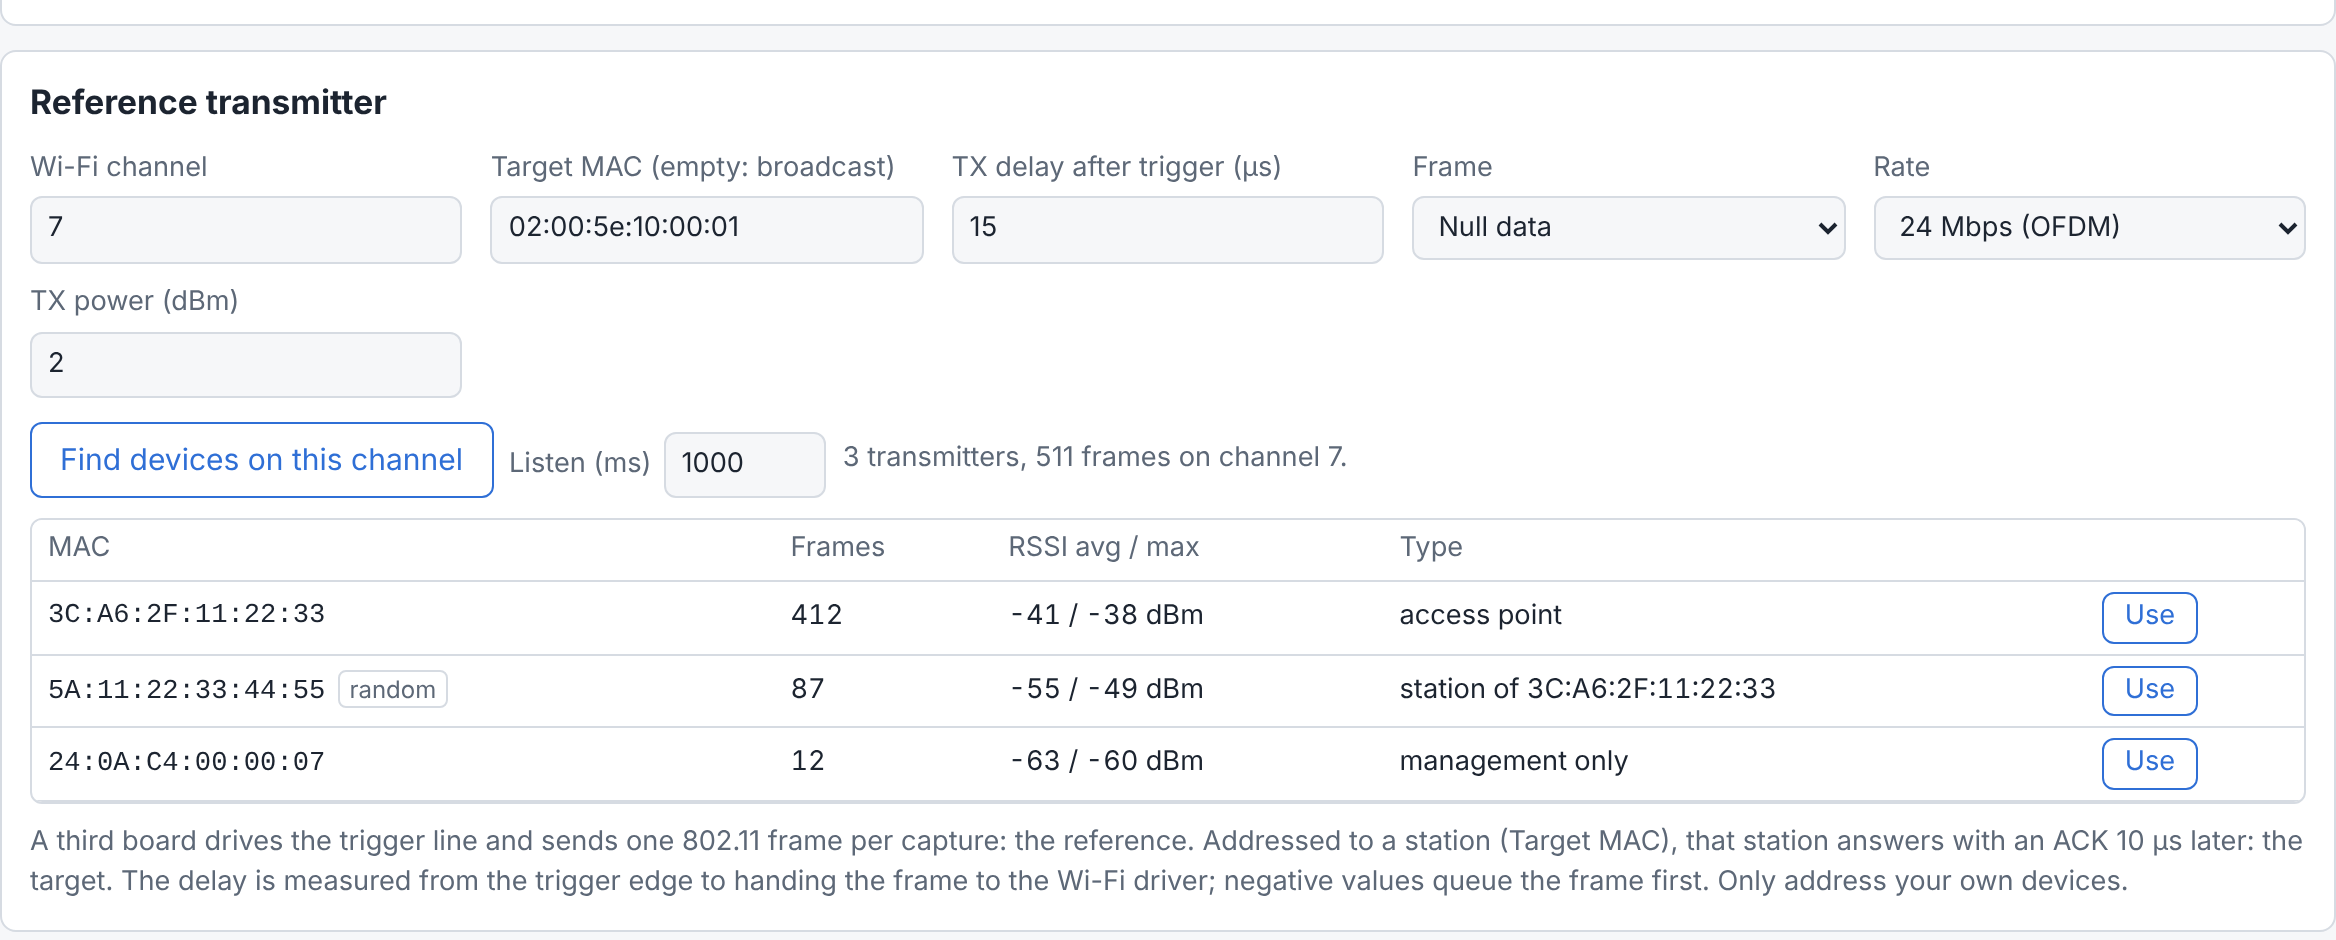
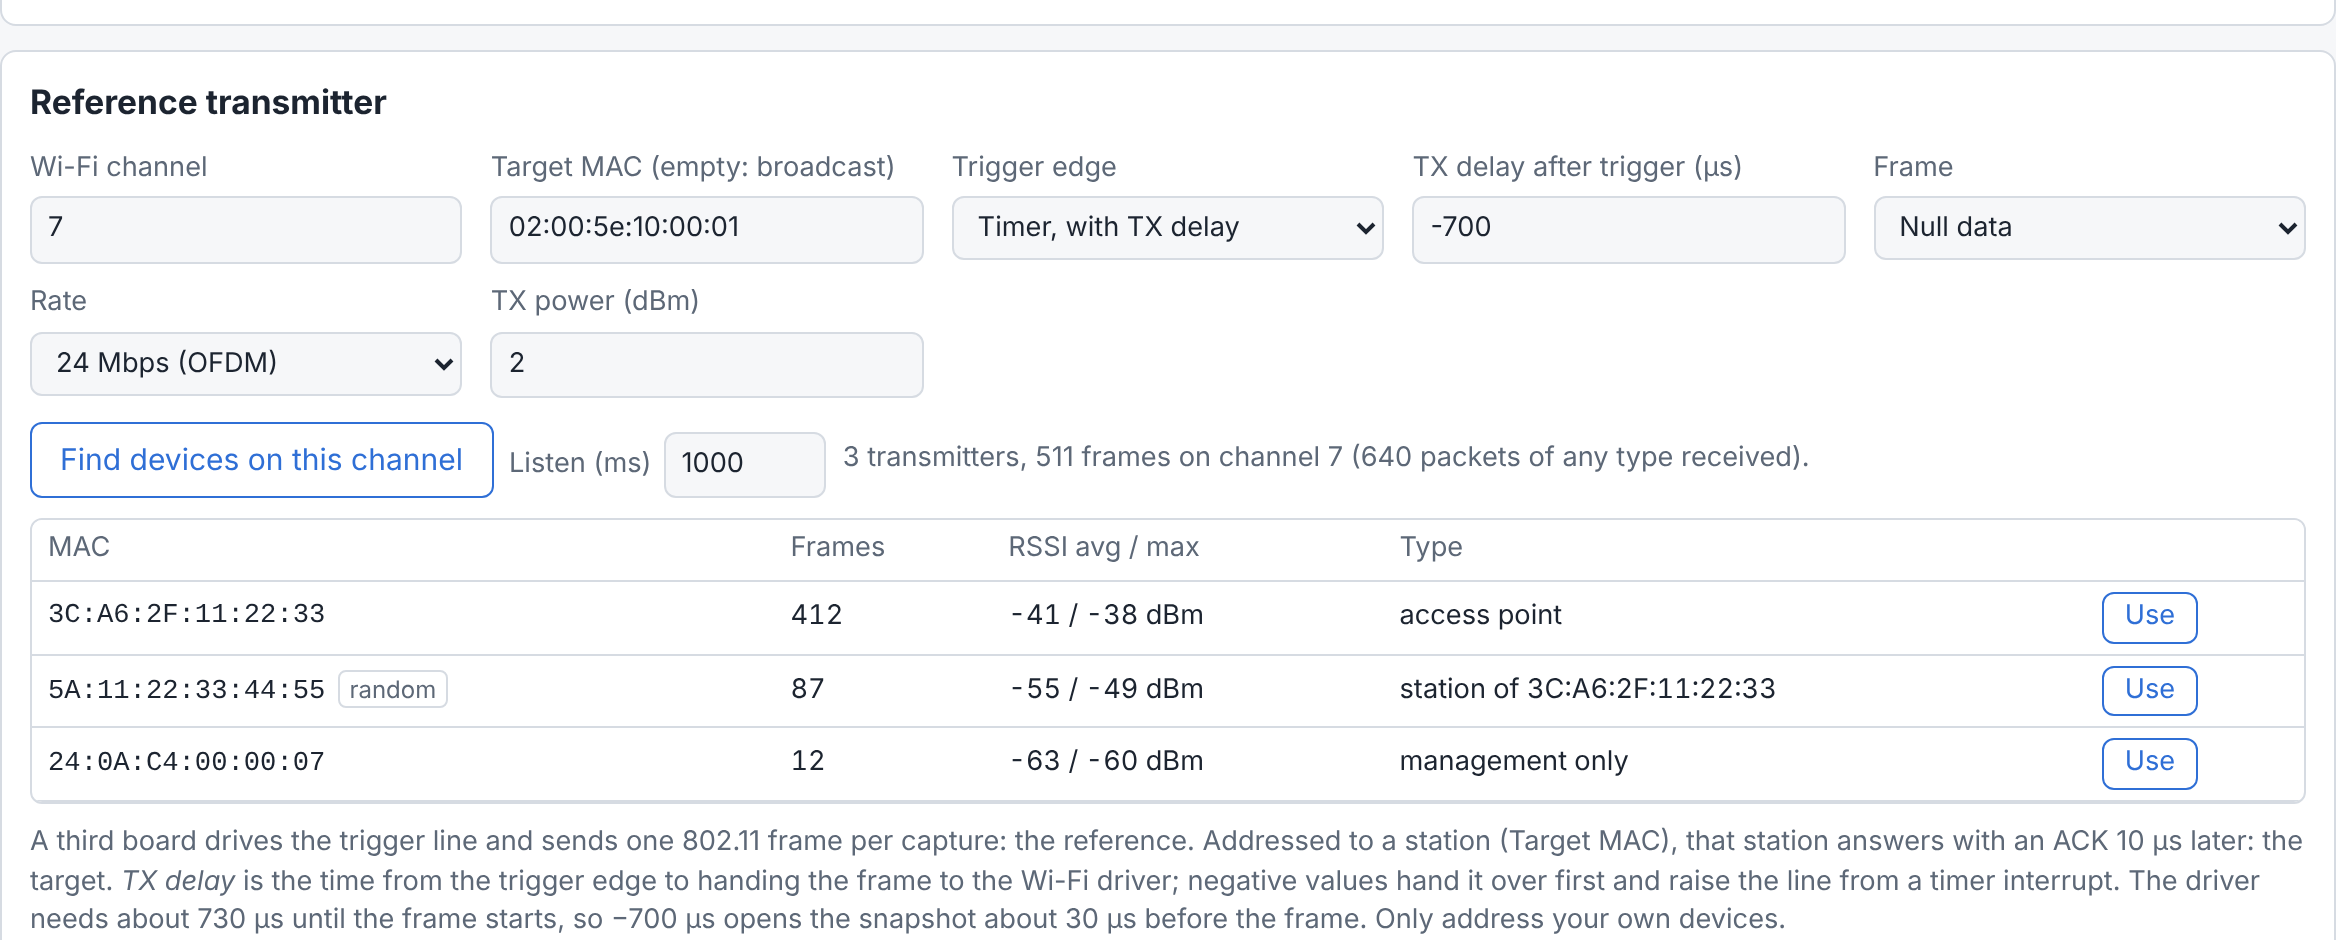
Web app: phase plot per burst with the phase difference over frequency
In bursts mode the cross-spectrum phase plot shows the reference and the
target burst separately (128 frequency groups each, coherent groups
highlighted) and their difference target·ref* minus the calibration,
which should be flat at the Δφ metric. Screenshots regenerated.

Claude-Session: https://claude.ai/code/session_01AT8VYFL97bqSj9vxruKJ3q

diff --git a/webapp/dsp.js b/webapp/dsp.js
@@ -623,7 +623,9 @@
     fft(xr, xi);
     fft(yr, yi);
     const re = new Float64Array(N),
-      im = new Float64Array(N);
+      im = new Float64Array(N),
+      paa = new Float64Array(N),
+      pbb = new Float64Array(N);
     let pa = 0,
       pb = 0;
     for (let i = 0; i < N; i++) {
@@ -634,10 +636,12 @@
         ci = xi[i] * yr[i] - xr[i] * yi[i];
       re[i] = cr * c - ci * s;
       im[i] = cr * s + ci * c;
-      pa += xr[i] * xr[i] + xi[i] * xi[i];
-      pb += yr[i] * yr[i] + yi[i] * yi[i];
+      paa[i] = xr[i] * xr[i] + xi[i] * xi[i];
+      pbb[i] = yr[i] * yr[i] + yi[i] * yi[i];
+      pa += paa[i];
+      pb += pbb[i];
     }
-    return { re, im, pa, pb, N };
+    return { re, im, paa, pbb, pa, pb, N };
   }
 
   // Phase of A·B* over one burst. For two bursts on the same channel, a
@@ -715,6 +719,34 @@
     return (lo + hi) / 2;
   }
 
+  // Cross spectrum of one burst in `groups` frequency groups from -fs/2 to
+  // fs/2 (summed A·B*, its phase and the coherence within the group).
+  function burstSpectrum(a, b, k, burst, fs, groups = 128) {
+    const x = burstCross(a, b, k, burst);
+    if (!x) return null;
+    const g = Math.min(groups, x.N),
+      per = x.N / g,
+      out = { freq: new Float64Array(g), re: new Float64Array(g), im: new Float64Array(g), coherence: new Float64Array(g) };
+    for (let j = 0; j < g; j++) {
+      let re = 0,
+        im = 0,
+        pa = 0,
+        pb = 0;
+      for (let q = 0; q < per; q++) {
+        const i = (j * per + q + x.N / 2) % x.N; // -fs/2 .. fs/2
+        re += x.re[i];
+        im += x.im[i];
+        pa += x.paa[i];
+        pb += x.pbb[i];
+      }
+      out.freq[j] = ((j + 0.5) / g - 0.5) * fs;
+      out.re[j] = re;
+      out.im[j] = im;
+      out.coherence[j] = pa && pb ? (re * re + im * im) / (pa * pb) : 0;
+    }
+    return out;
+  }
+
   // Level of each burst in each receiver, in dB over that receiver's noise
   // (mean power outside all bursts): snrA, snrB. b aligned by the lag k.
   function burstLevels(a, b, k, bursts) {
@@ -773,7 +805,10 @@
       cs = next;
       if (done) break;
     }
-    let ref, target, bursts = null;
+    let ref,
+      target,
+      bursts = null,
+      burstSpectra = null;
     if (opt.mode === 'bursts') {
       // Reference and target are transmissions at different times.
       bursts = findBursts(a, b, cs.lag, fs, { thresholdDb: opt.burstThresholdDb ?? 10 });
@@ -811,13 +846,17 @@
       const pick = (i) => (bursts[i] ? burstPhase(a, bAligned, k, bursts[i]) : { phase: NaN, coherence: 0 });
       ref = pick((opt.refBurst ?? 1) - 1);
       target = pick((opt.targetBurst ?? 2) - 1);
+      // Per-burst cross spectra for display; their product target·ref* is
+      // Δφ over frequency and should be flat.
+      const spec = (i) => (bursts[i] ? burstSpectrum(a, bAligned, k, bursts[i], fs) : null);
+      burstSpectra = { ref: spec((opt.refBurst ?? 1) - 1), target: spec((opt.targetBurst ?? 2) - 1) };
     } else {
       ref = bandPhase(cs, opt.refHz ?? 0, opt.refWidthHz ?? fs);
       target = bandPhase(cs, opt.targetHz ?? 0, opt.targetWidthHz ?? fs);
     }
     const dphi = wrap(target.phase - ref.phase - (opt.calibration ?? 0));
     const angle = opt.baselineM ? angleFromPhase(dphi, targetFrequency(opt), opt.baselineM) : NaN;
-    return { cfo, xc, cs, ref, target, bursts, dphi, angle, a, b };
+    return { cfo, xc, cs, ref, target, bursts, burstSpectra, dphi, angle, a, b };
   }
 
   // Envelope |x|^2 reduced to `points` maxima for display.
@@ -851,6 +890,7 @@
     burstPhase,
     burstLag,
     burstLevels,
+    burstSpectrum,
     burstCfo,
     fracDelay,
     targetFrequency,

diff --git a/webapp/app.js b/webapp/app.js
@@ -795,7 +795,8 @@
         for (let i = 0; i < s.x.length; i++) {
           if (!Number.isFinite(s.y[i])) continue;
           g.globalAlpha = s.alpha ? s.alpha[i] : 1;
-          g.fillRect(X(s.x[i]) - 1.5, Y(s.y[i]) - 1.5, 3, 3);
+          const d = s.size || 3;
+          g.fillRect(X(s.x[i]) - d / 2, Y(s.y[i]) - d / 2, d, d);
         }
         g.globalAlpha = 1;
       } else {
@@ -881,6 +882,36 @@
   }
 
   function drawPhase(r, opt) {
+    const caption = $('caption-phase');
+    if (r.burstSpectra?.ref && r.burstSpectra?.target) {
+      // Per burst: reference and target phase over frequency, and their
+      // difference Δφ(f) (calibration removed), which should be flat at Δφ.
+      const { ref, target } = r.burstSpectra,
+        f = Array.from(ref.freq, (x) => x / 1e6),
+        ok = (sp, i) => sp.coherence[i] >= 0.5,
+        phase = (sp) => Array.from(sp.re, (re, i) => Math.atan2(sp.im[i], re) * DEG),
+        alpha = (sp) => Array.from(sp.coherence, (c) => (c >= 0.5 ? 1 : 0.12)),
+        diff = Array.from(ref.re, (_, i) => {
+          if (!ok(ref, i) || !ok(target, i)) return NaN;
+          const re = target.re[i] * ref.re[i] + target.im[i] * ref.im[i],
+            im = target.im[i] * ref.re[i] - target.re[i] * ref.im[i];
+          return DualDSP.wrap(Math.atan2(im, re) - calibration) * DEG;
+        });
+      caption.textContent =
+        'Cross-spectrum phase per burst: reference (green), target (purple) and Δφ = target − reference (blue, should be flat)';
+      plot($('plot-phase'), {
+        series: [
+          { x: f, y: phase(ref), color: css('--series-ref'), points: true, alpha: alpha(ref) },
+          { x: f, y: phase(target), color: css('--series-target'), points: true, alpha: alpha(target) },
+          { x: f, y: diff, color: css('--accent'), points: true, size: 5 },
+        ],
+        xLabel: 'Offset from center (MHz)',
+        yLabel: 'phase (°)',
+        yRange: [-180, 180],
+      });
+      return;
+    }
+    caption.textContent = 'Cross-spectrum phase after delay removal (coherent bins highlighted)';
     const f = Array.from(r.cs.freq, (x) => x / 1e6),
       phase = Array.from(r.cs.re, (re, i) => Math.atan2(r.cs.im[i], re) * DEG),
       alpha = Array.from(r.cs.coherence, (g) => (g >= 0.5 ? 1 : 0.12));

diff --git a/webapp/style.css b/webapp/style.css
@@ -9,6 +9,8 @@
   --series-a: #2f6fd6;
   --series-b: #d9822b;
   --band-ref: rgba(46, 160, 67, 0.3);
+  --series-ref: #2e9e45;
+  --series-target: #a845b8;
   --band-target: rgba(176, 72, 190, 0.16);
   --grid: #e3e7ec;
   --good: #1f8a3a;
@@ -28,6 +30,8 @@
     --series-a: #5b93ec;
     --series-b: #f0a050;
     --band-ref: rgba(70, 190, 100, 0.35);
+    --series-ref: #5cc878;
+    --series-target: #d080e0;
     --band-target: rgba(200, 110, 215, 0.2);
     --grid: #27303a;
     --good: #4cc26b;
@@ -47,6 +51,8 @@
   --series-a: #5b93ec;
   --series-b: #f0a050;
   --band-ref: rgba(70, 190, 100, 0.35);
+  --series-ref: #5cc878;
+  --series-target: #d080e0;
   --band-target: rgba(200, 110, 215, 0.2);
   --grid: #27303a;
   --good: #4cc26b;

diff --git a/webapp/index.html b/webapp/index.html
@@ -258,7 +258,7 @@
           <canvas id="plot-correlation"></canvas>
         </figure>
         <figure>
-          <figcaption>Cross-spectrum phase after delay removal (coherent bins highlighted)</figcaption>
+          <figcaption id="caption-phase">Cross-spectrum phase after delay removal (coherent bins highlighted)</figcaption>
           <canvas id="plot-phase"></canvas>
         </figure>
         <figure class="wide">

diff --git a/CLAUDE.md b/CLAUDE.md
@@ -152,7 +152,11 @@ Takt-Spurs, für Sync und Referenz ungeeignet (nicht ins Referenzband legen).
 - Export/Import eines Paars als JSON (Python-Snippet in `webapp/README.md`),
   inkl. `ui` = alle Panel-Eingaben nach id (+ Kalibrierung); dieselben Werte
   bleiben in `localStorage` (`dual-sdr.settings`). Burst-Metrik zeigt Pegel
-  je Empfänger über Rauschen (`burstLevels`), Warnung < 10 dB.
+  je Empfänger über Rauschen (`burstLevels`), Warnung < 10 dB. Phasenplot im
+  Burst-Modus: Kreuzspektrum je Burst (`burstSpectrum`, 128 Gruppen) für
+  Referenz/Ziel plus Δφ(f) = Ziel·Ref* − Kalibrierung (soll flach sein). Echte
+  Messung (6 Mbps, Router-ACK): Δφ(f) von −11° bis +16° über ±8 MHz, also
+  leichte Steigung (unterschiedlicher Laufzeitversatz Ref/Ziel, Mehrwege).
 - Hardware 2026-11-16 (fw a5bfdb9, Timer −760 µs, 24/6 Mbps, 2 dBm): Frame ab
   ~10 µs vollständig, ACK 16 µs danach; Referenz nur 13–16 dB über Rauschen,
   Router-ACK 25–31 dB. Nutzer: „manchmal sieht nur ein ESP die Referenz“ –

diff --git a/webapp/README.md b/webapp/README.md
@@ -35,6 +35,7 @@ How to read the plots:
 | Envelope | Signal power over the snapshot; bursts should line up in both receivers |
 | Cross-correlation | Peak at the time offset between the snapshots; no clear peak means no common signal |
 | Cross-spectrum phase | Phase of A·B* per frequency after removing the time offset; coherent bins are highlighted. A flat line means the time offset is removed; a step between the bands is the measured Δφ |
+| Cross-spectrum phase (bursts mode) | Per burst: reference (green) and target (purple) phase over frequency, and Δφ(f) = target − reference after calibration (blue). The random LO phase and a residual time offset move both bursts alike, so Δφ(f) should be flat at the Δφ metric; a slope means the reference and the target arrive with different time offsets (geometry, multipath) |
 | History | Δφ (blue) and angle (orange) per capture |
 
 ## How the analysis works
